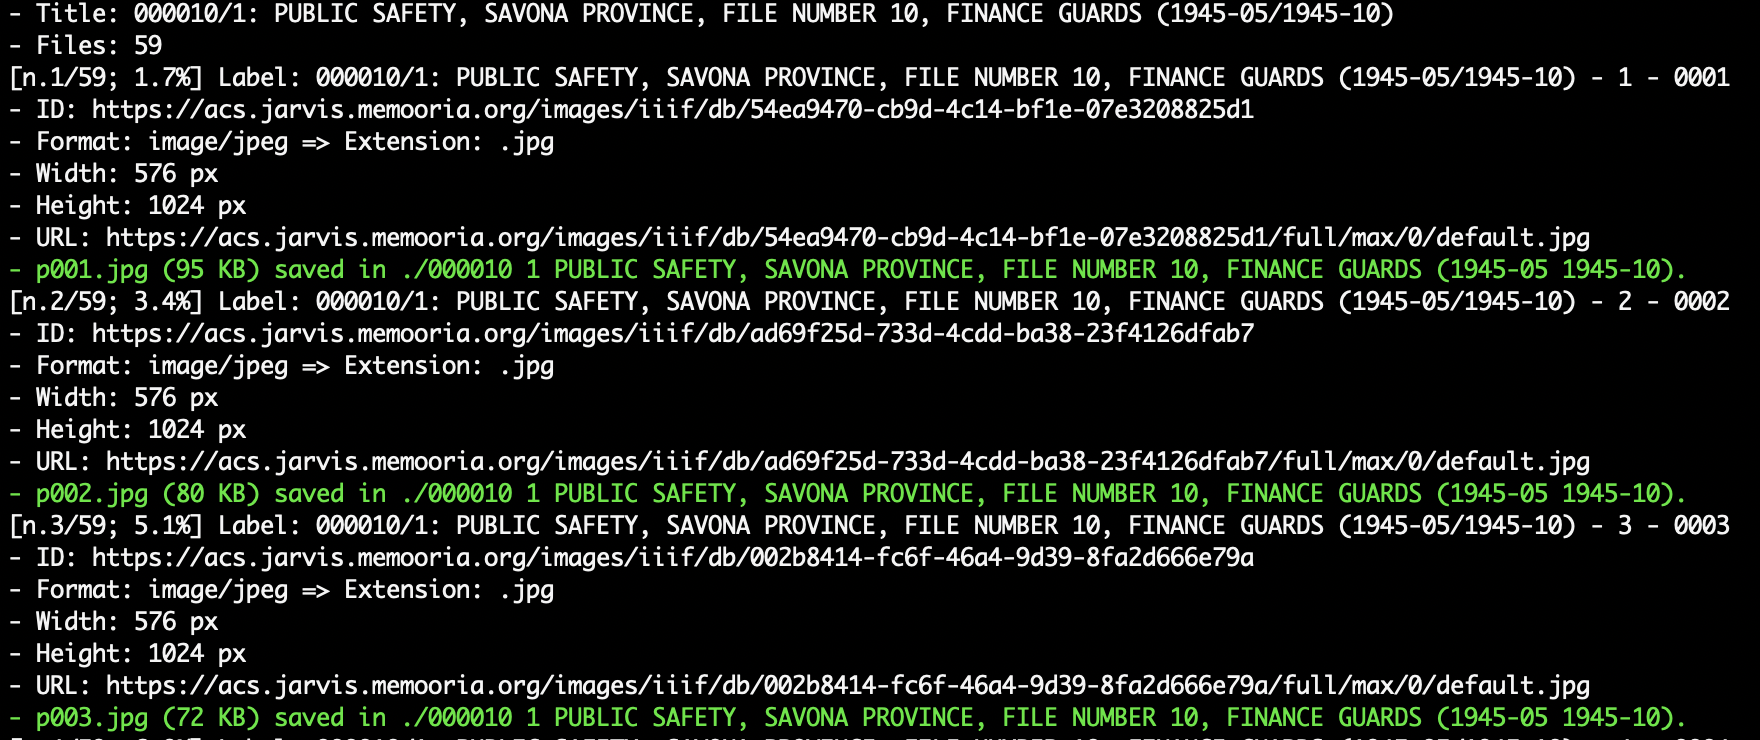
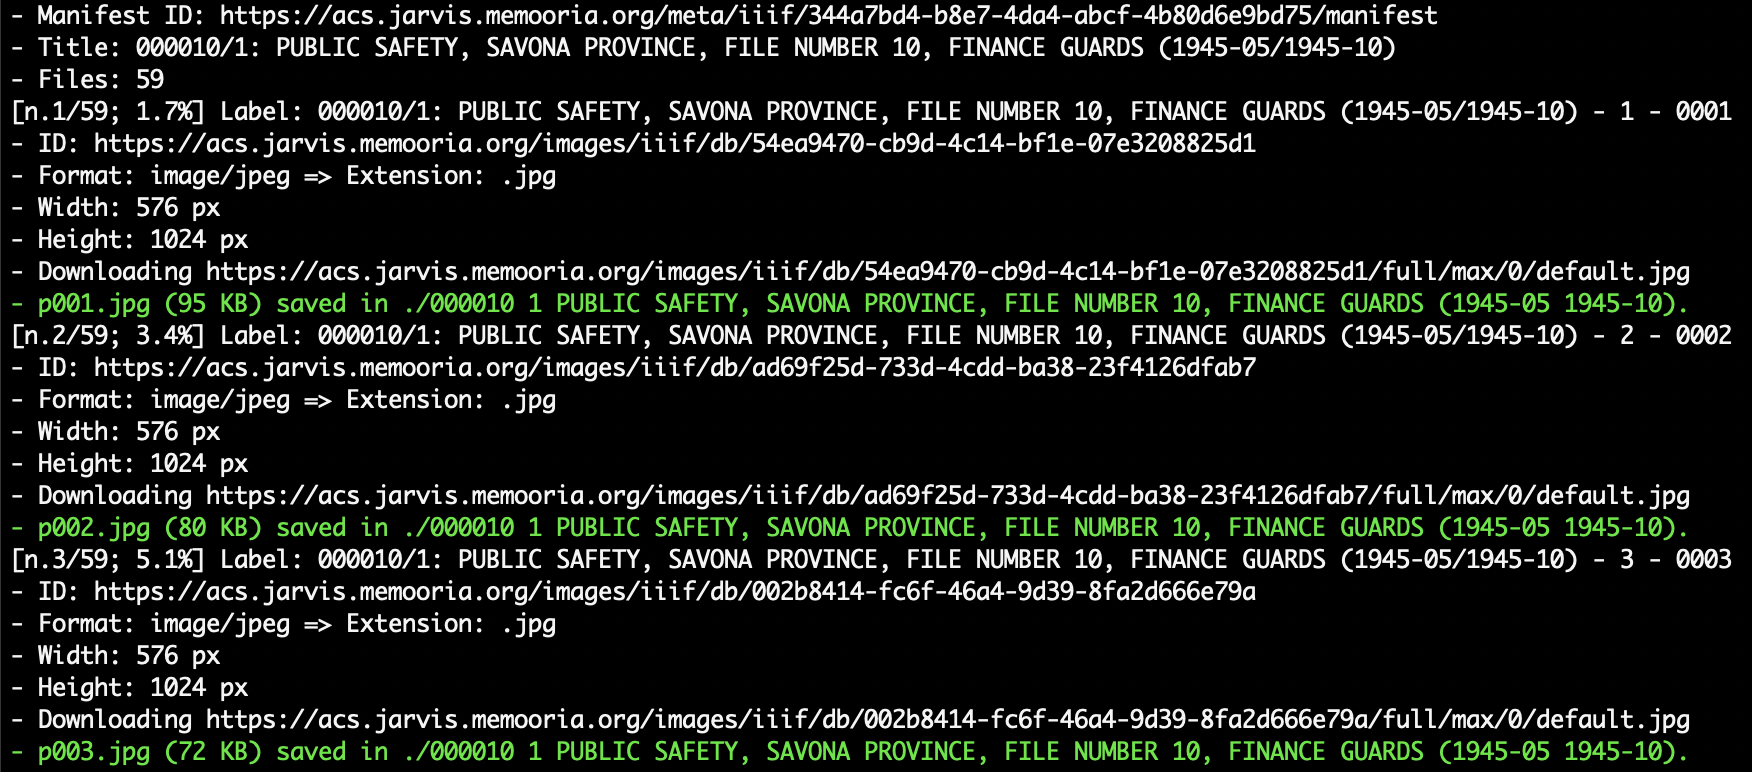
Improved json parsing

Changed region(s): [[0.0, 0.0, 0.9863, 1.0], [0.9555, 0.9946, 0.9863, 1.0]]

diff --git a/iiif.py b/iiif.py
@@ -4,7 +4,9 @@ import os
 from shutil import rmtree
 from urllib.request import urlopen, Request
 
-# Doc: https://iiif.io/api/image/2.0/
+# Doc:
+# - Image: https://iiif.io/api/image/2.0/
+# - Presentation: https://iiif.io/api/presentation/2.0/
 
 class Conf:
   def __init__(self, firstpage = 1, lastpage = -1, use_labels = False, force = False):
@@ -23,6 +25,7 @@ def open_url(u):
     return;
 
 def download_file(u, filepath):
+  print("- Downloading " + u)
   try:
     res = open_url(u)
     #print(response.getcode())
@@ -57,55 +60,61 @@ def get_extension(mime_type):
         'application/pdf': '.pdf',
         'image/webp': '.webp'
     }
-    return mime_to_extension.get(mime_type, None)
+    return mime_to_extension.get(mime_type, 'NA')
 
 def get_img_url(iiif_id, ext):
-    if(iiif_id.endswith(ext)):
-        img_url = iiif_id
-    else:
-        region = 'full'
-        size = 'max' # or 'full'
-        rotation = '0'
-        quality = 'default'
-        img_url = iiif_id + '/' + region + '/' + size + '/' + rotation + '/' + quality + ext
+    region = 'full'
+    size = 'max' # or 'full'
+    rotation = '0'
+    quality = 'default'
+    img_url = iiif_id + '/' + region + '/' + size + '/' + rotation + '/' + quality + ext
     return img_url
 
 def read_iiif2_json(d):
     title = d['label']
+    manifest_id = d['@id']
 
     sequences = d["sequences"]
-    # Assumption: 1 sequence in sequences
+    # Assumption #1: 1 sequence in sequences
     sequence = sequences[0]
+    #if(sequence.get("@type") != 'sc:Sequence'): raise Exception
+
     canvanses = sequence.get("canvases")
 
     labels = []
     images = []
+    iiif_w = []
+    iiif_h = []
     for c in canvanses:
+        #if(c.get("@type") != 'sc:Canvas'): raise Exception
         labels.append(c.get("label"))
-        # Assumption: 1 image in images
+        # Assumption #2: 1 image in images
         images.append(c.get("images")[0])
+        iiif_w.append(c.get('width'))
+        iiif_h.append(c.get('height'))
 
     resources = []
     for i in images:
+        #if(i.get('@type') != "oa:Annotation"): raise Exception
+        if((i.get('motivation')).lower() != "sc:painting"): # lower for "sc:Painting"
+            continue
         resources.append(i.get("resource"))
 
     iiif_ids = []
     iiif_formats = []
-    iiif_w = []
-    iiif_h = []
     for r in resources:
         iiif_ids.append(r.get('@id'))
-        iiif_formats.append(r.get('format'))
-        iiif_w.append(r.get('width'))
-        iiif_h.append(r.get('height'))
+        iiif_formats.append(r.get('format', 'NA'))
 
     if(len(labels) != len(iiif_ids) != len(iiif_formats) != len(iiif_w) != len(iiif_h)):
         raise Exception("len discrepancy") 
 
-    return title, labels, iiif_ids, iiif_formats, iiif_w, iiif_h
+    return manifest_id, title, labels, iiif_ids, iiif_formats, iiif_w, iiif_h
 
 def read_iiif_json(d):
-    # Check
+    if(d['@type'] != 'sc:Manifest'):
+        raise Exception("Not a manifest") 
+
     context = d['@context']
     if(context.endswith('2/context.json')):
         return read_iiif2_json(d)
@@ -138,30 +147,46 @@ def download_iiif_files(iiif_ids, labels, iiif_formats, iiif_w, iiif_h, subdir, 
     for cnt, iiif_id in enumerate(iiif_ids):
         percentage = round((cnt + 1) / len(iiif_ids) * 100, 1)
         cnt = cnt + firstpage - 1
+
+        # Print counters and label
         print('[n.' + str(cnt + 1) + '/' + str(totpages) + '; '  + str(percentage) + '%] Label: ' + labels[cnt])
+
+        # Print file ID
         print('- ID: ' + iiif_id)
+
+        # Print file extension
         ext = get_extension(iiif_formats[cnt])
+        if(ext == 'NA' and '.' in iiif_id):
+          ext = '.' + iiif_id.split('.')[-1] # if format not defined, try take ext from file name
         print('- Format: ' + iiif_formats[cnt] + ' => Extension: ' + ext)
+
         print('- Width: ' + str(iiif_w[cnt]) + ' px')
         print('- Height: ' + str(iiif_h[cnt]) + ' px')
-        img_url = get_img_url(iiif_id, ext)
-        print('- URL: ' + img_url)
+
+        # Download file
         if(use_labels):
             filename = sanitize_name(labels[cnt]) + ext
         else:
             filename = 'p' + str(cnt + 1).zfill(3) + ext
         if(os.path.exists(subdir + '/' + filename) and not conf.force):
-            print(subdir + '/' + filename + " exists, skip.")
+            print('- ' + subdir + '/' + filename + " exists, skip.")
             continue;
+
+        img_url = get_img_url(iiif_id, ext)
         filesize = download_file(img_url, subdir + '/' + filename)
-        if(filesize > 0):
-            print('\033[92m' + '- ' + filename + ' (' + str(round(filesize / 1000)) + ' KB) saved in ' + subdir + '.' + '\033[0m')
-            total_filesize += filesize
-        else:
+        if(filesize <= 0):
+            filesize = download_file(iiif_id, subdir + '/' + filename)
+
+        if(filesize <= 0):
             print('\033[91m' + '- Error!' + '\033[0m')
             some_error = True
+        else:
+            print('\033[92m' + '- ' + filename + ' (' + str(round(filesize / 1000)) + ' KB) saved in ' + subdir + '.' + '\033[0m')
+            total_filesize += filesize
+
     end_time = time.time()
 
+    # TODO: distinguish downloaded and manifest files counts
     print("--- Stats ---")
     print("- Files: " + str(len(iiif_ids)))
     total_time = (end_time - start_time)
@@ -179,10 +204,10 @@ def download_iiif_files_from_manifest(manifest_name, maindir, conf = Conf()):
     else:
         with open(manifest_name) as f:
             d = json.load(f)
-    #print(json.dumps(d, indent=4))
 
     # Read manifest
-    title, labels, iiif_ids, iiif_formats, iiif_w, iiif_h = read_iiif_json(d)
+    manifest_id, title, labels, iiif_ids, iiif_formats, iiif_w, iiif_h = read_iiif_json(d)
+    print('- Manifest ID: ' + manifest_id)
     print('- Title: ' + title)
     print('- Files: ' + str(len(labels)))
 

diff --git a/README.md b/README.md
@@ -23,7 +23,7 @@ The manifest can be a file on your computer or a http(s) link. `manifest` is the
 * Specify the output directory with `-d directory`.
 * Specify the range of the pages to download with `-p first-last` (e.g. `10-20` for pages from 10 to 20, or `10-10` for page 10 only).
 * Use the `-f` flag to overwrite the files when they are already present in the directory.
-* Use the `--use-labels` flag to name the files with its label, instead of a progressive number.
+* Use the `--use-labels` flag to name the files with the manifest labels, instead of a progressive number.
 
 ## Advanced usage
 
